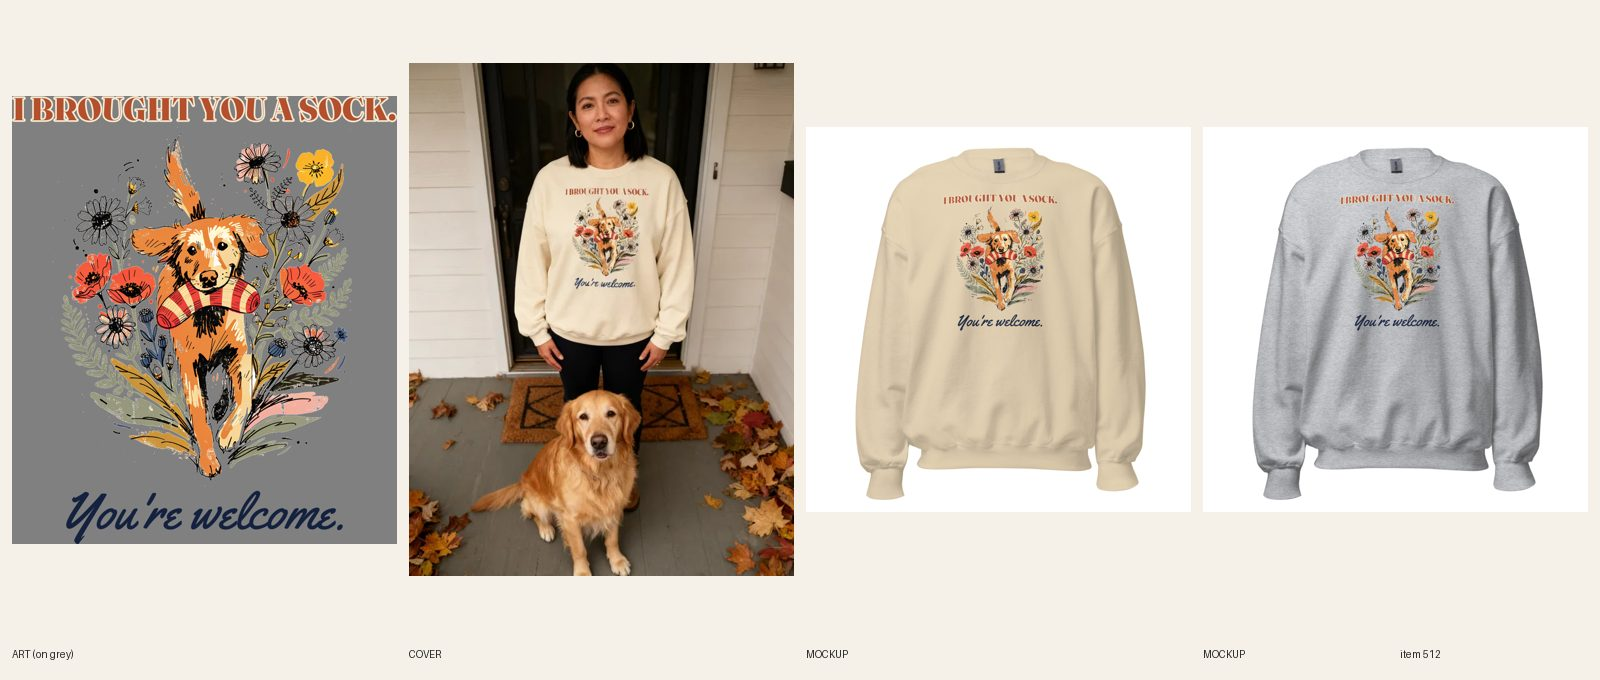
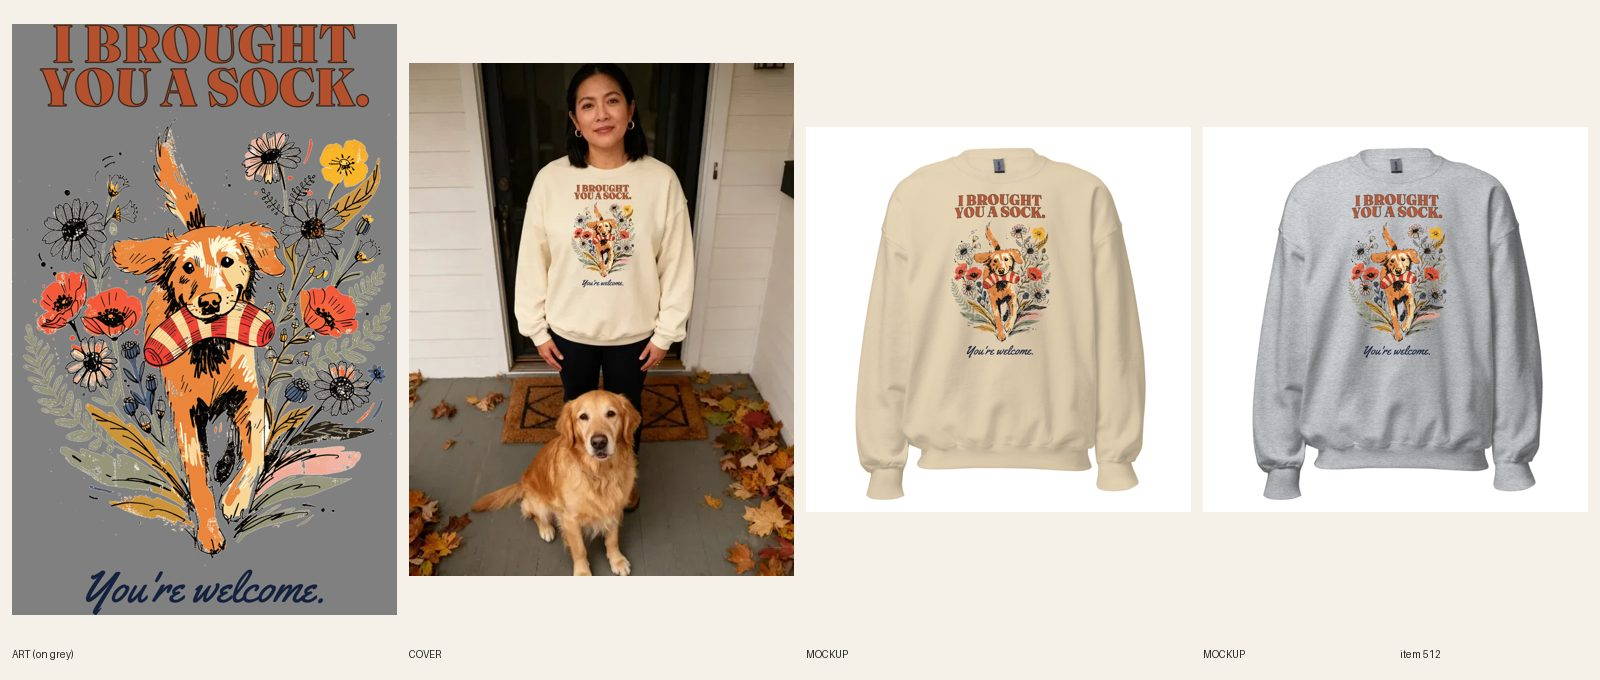
[B] review 512 I Brought You a Sock REDO: two-line joke

diff --git a/docs/pipeline/512-golden-retriever-crew-brought-you-a-sock.md b/docs/pipeline/512-golden-retriever-crew-brought-you-a-sock.md
@@ -1,4 +1,4 @@
-status: BUILDING [B] 2026-10-18 01:02Z
+status: REVIEW
 lane: B
 type: new
 id: 512
@@ -33,3 +33,4 @@ kd: 38
   1. R3.7.1 / R5.3.5: the joke line I BROUGHT YOU A SOCK. is set in one tight Fraunces 900 line, so at phone size the letters run together (UGHT fuses, the cream keyline vanishes on Sand) and the joke reads smaller than the punchline "You're welcome." Re-set it in compose-print on two lines, I BROUGHT / YOU A SOCK., normal letter spacing, about 85–90% of the art width, so the cap height roughly doubles; keep the rust ink and switch the keyline to a thin navy or dark-brown one so it holds on Sand and Sport Grey. Keep the dog, flowers and "You're welcome." as they are; FW 1650 stays.
   2. New Printful file, re-link the 12 variants, new Sand + Sport Grey + back mockups, variant images re-pointed.
   3. Cover: R6.9 composite of the new print from the Sand mockup onto her chest (no fal call). Read every word letter by letter, then REVIEW.
+- 2026-10-18 01:20 UTC builder [B]: REDO done. Joke line re-set in compose-print on two lines, I BROUGHT / YOU A SOCK., Fraunces 900, tracking +0.035, rust #b4502d with a thin dark-brown keyline (#3b2418), width about 85% of the art; cap height roughly doubled vs the one-line version; dog, flowers and You're welcome. kept (script now about 55% of the art width). New print 2880x4423 (ratio 1.54). FW: set to 1500, NOT 1650: the 18000 front area is 1800x2400 px, so FW 1650 would make this print 2534 px tall (over the 2325 left under TOP 75); at FW 1500 it is 2303 px (10 x 15.4 in), at the R5.3.2 floor. Printful file 1088605618, all 12 variants re-linked 12/12, new Sand + Sport Grey + back mockups, images replaced in place with fileUpdate (variant links and alts kept). Cover: R6.9 composite of the new print onto her chest from the existing photo (no fal call); every word read letter by letter. Review sheet rebuilt, astro build OK. fal $0.

diff --git a/docs/intake-log.md b/docs/intake-log.md
@@ -1,3 +1,4 @@
+2026-10-18 01:10 UTC — [B] REVIEW #512 Golden Retriever I Brought You a Sock crewneck REDO (two-line joke, FW 1500, 12/12, composite cover; fal $0).
 2026-10-18 01:02 UTC — [B] REVIEW #384 Women's Y2K – Hot Mess Express Oversized Sweatshirt (cover added; fal $0.12).
 2026-10-18 00:59 UTC — [B] REVIEW #380 Women's Football Mom – Down, Set, Snacks Crewneck (DRAFT, synced 12/12, Sand + Sport Grey; fal $0.06).
 2026-10-18 04:06 UTC — [C] REVIEW #505 Women's Golf I Only Golf for the Outfits cropped hoodie (DRAFT, synced 10/10, Black + Storm, composite cover; fal $0.14).
